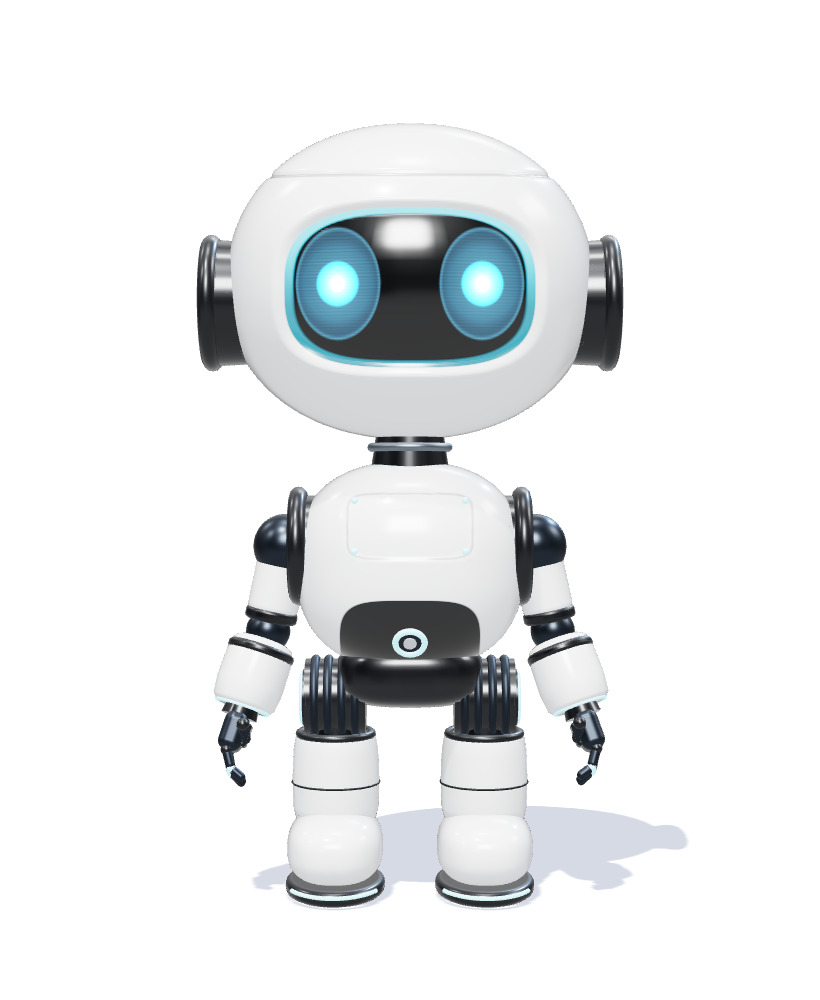
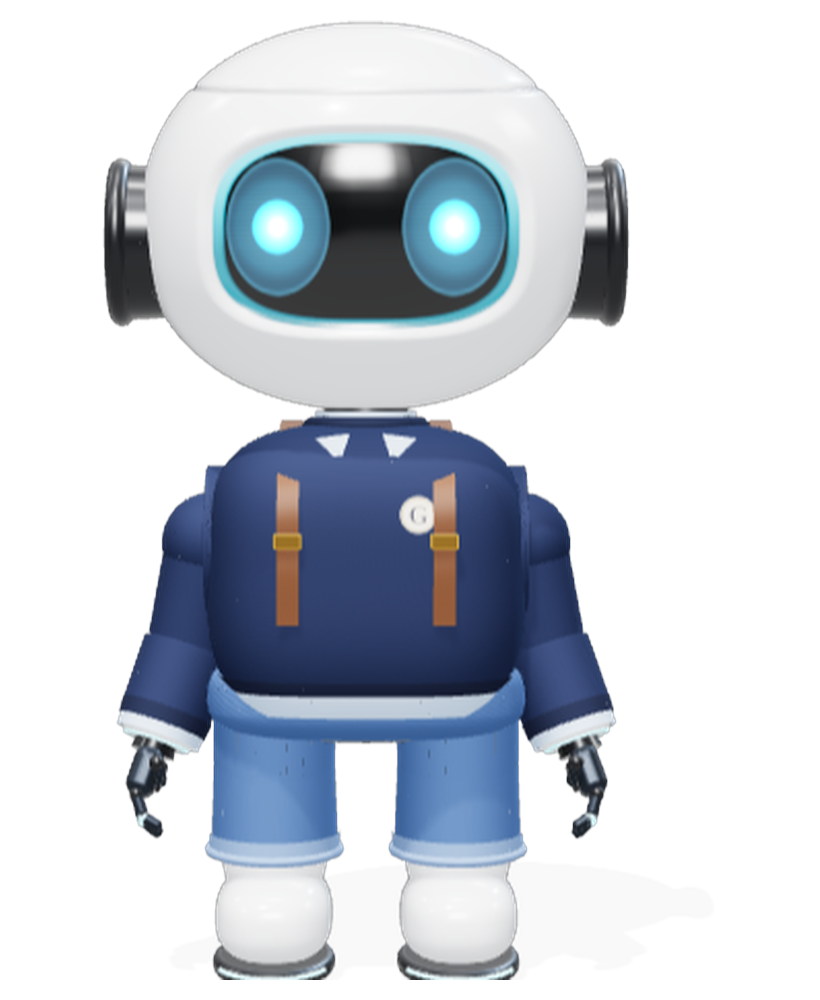
Gizmo: preppy outfit
Navy crew-neck sweatshirt with a crest over a light-blue oxford shirt
(collar points, cuffs and shirt-tail showing), mid-wash jeans with
rolled hems, and a tan canvas backpack with leather straps and brass
buckles. Still image for the no-3D fallback updated to match.

Claude-Session: https://claude.ai/code/session_01HN9mNrF19oo88FNATmVzzN

diff --git a/gizmo/avatar3d.js b/gizmo/avatar3d.js
@@ -267,6 +267,113 @@ export function createAvatar(el, opts = {}) {
     arms.push(arm);
   }
 
+  // ----- outfit: navy crew-neck sweatshirt over a light-blue oxford shirt, mid-wash jeans with rolled hems, tan canvas backpack -----
+  const fabricTex = (draw, rep) => { const c = document.createElement('canvas'); c.width = c.height = 128; const g = c.getContext('2d'); draw(g); const t = new THREE.CanvasTexture(c); t.wrapS = t.wrapT = THREE.RepeatWrapping; t.repeat.set(rep[0], rep[1]); return t; };
+  const knit = fabricTex(g => { g.fillStyle = '#7a7a7a'; g.fillRect(0, 0, 128, 128); for (let x = 0; x < 128; x += 4) { g.fillStyle = (x / 4) % 2 ? '#a0a0a0' : '#5c5c5c'; g.fillRect(x, 0, 2, 128); } }, [14, 8]);
+  const twill = fabricTex(g => { g.fillStyle = '#7a7a7a'; g.fillRect(0, 0, 128, 128); g.strokeStyle = '#b0b0b0'; g.lineWidth = 2; for (let i = -128; i < 256; i += 6) { g.beginPath(); g.moveTo(i, 0); g.lineTo(i + 128, 128); g.stroke(); } }, [4, 4]);
+  const C = {
+    sweat: new THREE.MeshStandardMaterial({ color: 0x1e2c4c, roughness: .93, bumpMap: knit, bumpScale: .5, side: THREE.DoubleSide }),
+    rib: new THREE.MeshStandardMaterial({ color: 0x18233d, roughness: .95, bumpMap: knit, bumpScale: 1.2, side: THREE.DoubleSide }),
+    shirt: new THREE.MeshStandardMaterial({ color: 0xb9d2f0, roughness: .78, side: THREE.DoubleSide }),
+    denim: new THREE.MeshStandardMaterial({ color: 0x46679a, roughness: .9, bumpMap: twill, bumpScale: .7, side: THREE.DoubleSide }),
+    denimLight: new THREE.MeshStandardMaterial({ color: 0x7593c2, roughness: .92, bumpMap: twill, bumpScale: .7 }),
+    canvas: new THREE.MeshStandardMaterial({ color: 0xc9a46a, roughness: .88, bumpMap: twill, bumpScale: .35 }),
+    leather: new THREE.MeshStandardMaterial({ color: 0x6a4024, roughness: .5, side: THREE.DoubleSide }),
+    brass: new THREE.MeshStandardMaterial({ color: 0xd2a94e, roughness: .28, metalness: 1 }),
+  };
+  // a band of a super-ellipsoid shell, kept between two heights (an open tube of fabric)
+  function band(a, bt, bb, c, n, yMin, yMax, mat) {
+    // parametric strip of the super-ellipsoid between two heights: clean, straight edges top and bottom
+    const ROWS = 40, COLS = 128, pos = [], idx = [];
+    const yTop = Math.min(yMax, bt * .999), yBot = Math.max(yMin, -bb * .999);
+    for (let r = 0; r <= ROWS; r++) {
+      const y = yBot + (yTop - yBot) * r / ROWS, bh = y > 0 ? bt : bb;
+      const k = Math.pow(Math.max(0, 1 - Math.pow(Math.abs(y / bh), n)), 1 / n);
+      for (let q = 0; q <= COLS; q++) {
+        const t = q / COLS * PI * 2, ct = Math.cos(t), st = Math.sin(t);
+        pos.push(a * k * Math.sign(ct) * Math.pow(Math.abs(ct), 2 / n), y, c * k * Math.sign(st) * Math.pow(Math.abs(st), 2 / n));
+        if (r < ROWS && q < COLS) { const i = r * (COLS + 1) + q, j = i + COLS + 1; idx.push(i, i + 1, j, i + 1, j + 1, j); }
+      }
+    }
+    const g = new THREE.BufferGeometry(); g.setAttribute('position', new THREE.Float32BufferAttribute(pos, 3)); g.setIndex(idx); g.computeVertexNormals();
+    const uv = []; for (let r = 0; r <= ROWS; r++) for (let q = 0; q <= COLS; q++) uv.push(q / COLS, r / ROWS); g.setAttribute('uv', new THREE.Float32BufferAttribute(uv, 2));
+    return mesh(g, mat);
+  }
+
+  const SA = .64, SBT = .56, SBB = .66, SC = .55, SN = 3.2, HEM = -.5;            // sweatshirt: boxier and longer than the body egg
+  const sweatZ = (x, y) => SC * Math.pow(Math.max(0, 1 - Math.pow(Math.abs(x / SA), SN) - Math.pow(Math.abs(y / (y > 0 ? SBT : SBB)), SN)), 1 / SN);
+  const sweat = band(SA, SBT, SBB, SC, SN, HEM + .06, 1, C.sweat); torso.add(mesh(superBlob(SA * .995, SBT, SBT, SC * .995, SN, 96, 64), C.sweat, [0, TY + .001, 0], [1, 1, 1]).translateY(0)); sweat.position.y = TY; torso.add(sweat);
+  const hemRib = band(SA * 1.012, SBT, SBB * 1.01, SC * 1.014, SN, HEM, HEM + .075, C.rib); hemRib.position.y = TY; torso.add(hemRib);
+  const tail = band(SA * .985, SBT, SBB * 1.08, SC * .985, SN, HEM - .07, HEM + .02, C.shirt); tail.position.y = TY; torso.add(tail);   // shirt-tail under the hem
+  // crew neck: ribbed collar round the neck, with the shirt collar points showing in front
+  torso.add(mesh(new THREE.TorusGeometry(.215, .042, 14, 48), C.rib, [0, TY + SBT - .015, 0]).rotateX(PI / 2));
+  for (const sx of [-1, 1]) {
+    const y = .5, x = sx * .085, z = sweatZ(x, y) + .02;
+    const pt = new THREE.Shape(); pt.moveTo(0, 0); pt.lineTo(sx * .13, -.02); pt.lineTo(sx * .035, -.13); pt.closePath();
+    const cp = mesh(new THREE.ExtrudeGeometry(pt, { depth: .012, bevelEnabled: false }), C.shirt, [x - sx * .02, TY + y + .02, z - .01]);
+    cp.rotation.x = -.55; torso.add(cp);
+  }
+  torso.add(mesh(new THREE.CylinderGeometry(.205, .205, .05, 40, 1, true), C.shirt, [0, TY + SBT + .025, 0]));      // shirt collar band round the neck
+  // chest patch: a cream circle with a navy G
+  {
+    const c = document.createElement('canvas'); c.width = c.height = 128; const g = c.getContext('2d');
+    g.fillStyle = '#efe6d2'; g.beginPath(); g.arc(64, 64, 62, 0, 7); g.fill(); g.strokeStyle = '#b08d57'; g.lineWidth = 6; g.beginPath(); g.arc(64, 64, 55, 0, 7); g.stroke();
+    g.fillStyle = '#1e2c4c'; g.font = '700 84px Georgia, "Times New Roman", serif'; g.textAlign = 'center'; g.textBaseline = 'middle'; g.fillText('G', 64, 70);
+    const t = new THREE.CanvasTexture(c); t.colorSpace = THREE.SRGBColorSpace;
+    const x = .2, y = .22, z = sweatZ(x, y) + .006;
+    const nrm = new THREE.Vector3(Math.pow(Math.abs(x / SA), SN - 1) / SA, Math.pow(Math.abs(y / SBT), SN - 1) / SBT, Math.pow(z / SC, SN - 1) / SC).normalize();
+    const patch = new THREE.Mesh(new THREE.CircleGeometry(.075, 40), new THREE.MeshStandardMaterial({ map: t, roughness: .8, transparent: true }));
+    patch.position.set(x, TY + y, z); patch.quaternion.setFromUnitVectors(new THREE.Vector3(0, 0, 1), nrm); torso.add(patch);
+  }
+  for (const sx of [-1, 1]) { const sh = mesh(new THREE.CylinderGeometry(.31, .31, .22, 40), C.sweat, [sx * .53, TY + .08, 0]); sh.rotation.z = PI / 2; torso.add(sh); }   // cover the shoulder sockets
+  // sleeves: sweatshirt down to a ribbed cuff, with the shirt cuff peeking out at the wrist
+  arms.forEach(arm => {
+    const upperG = arm.children[1], fore = arm.userData.fore;
+    arm.add(mesh(new THREE.SphereGeometry(.205, 32, 24), C.sweat));                                       // sleeve cap over the shoulder ball
+    upperG.add(mesh(new THREE.CylinderGeometry(.19, .175, .4, 36, 1, true), C.sweat, [0, -.2, 0]));
+    fore.add(mesh(new THREE.SphereGeometry(.17, 28, 20), C.sweat));                                      // elbow
+    fore.add(mesh(new THREE.CylinderGeometry(.19, .185, .26, 36, 1, true), C.sweat, [0, -.14, 0]));
+    fore.add(mesh(new THREE.CylinderGeometry(.188, .182, .065, 36, 1, true), C.rib, [0, -.3, 0]));
+    fore.add(mesh(new THREE.CylinderGeometry(.176, .174, .05, 36, 1, true), C.shirt, [0, -.355, 0]));
+  });
+  // jeans: waistband and seat, straight legs over the hip wheels and boot tops, rolled hems
+  hips.add(mesh(superBlob(.64, .19, .17, .4, 3.4, 64, 40), C.denim, [0, .32, 0]));
+  legs.forEach(leg => {
+    leg.add(mesh(new THREE.CylinderGeometry(.25, .245, .42, 40, 1, true), C.denim, [0, .04, 0]));
+    leg.add(mesh(new THREE.CylinderGeometry(.25, .25, .02, 40), C.denim, [0, .25, 0]));
+    const knee = leg.userData.knee;
+    knee.add(mesh(new THREE.SphereGeometry(.245, 32, 20), C.denim, [0, 0, 0]));
+    knee.add(mesh(new THREE.CylinderGeometry(.245, .255, .3, 40, 1, true), C.denim, [0, -.15, 0]));
+    knee.add(mesh(new THREE.CylinderGeometry(.265, .265, .075, 40, 1, true), C.denimLight, [0, -.32, 0]));   // rolled hem
+    knee.add(mesh(new THREE.TorusGeometry(.262, .02, 8, 40), C.denimLight, [0, -.357, 0]).rotateX(PI / 2));
+  });
+  // backpack: tan canvas body, front pocket with leather flap straps and brass buckles, top handle, leather straps over the shoulders
+  {
+    const bp = new THREE.Group(); bp.position.set(0, TY + .02, -SC - .17); torso.add(bp);
+    bp.add(mesh(new RoundedBoxGeometry(.66, .78, .3, 5, .1), C.canvas));
+    bp.add(mesh(new RoundedBoxGeometry(.5, .34, .12, 4, .05), C.canvas, [0, -.17, -.18]));
+    bp.add(mesh(new RoundedBoxGeometry(.52, .1, .14, 3, .04), C.leather, [0, -.36, -.06]));                   // leather base
+    bp.add(mesh(new RoundedBoxGeometry(.5, .12, .02, 3, .008), C.canvas, [0, .0, -.245]));                    // pocket flap
+    for (const sx of [-1, 1]) {
+      bp.add(mesh(new RoundedBoxGeometry(.05, .2, .012, 2, .005), C.leather, [sx * .14, -.08, -.252]));
+      bp.add(mesh(new RoundedBoxGeometry(.065, .045, .015, 2, .006), C.brass, [sx * .14, -.12, -.258]));
+    }
+    const handle = mesh(new THREE.TorusGeometry(.09, .022, 10, 24, PI), C.leather, [0, .39, 0]); bp.add(handle);
+    // shoulder straps: flat leather ribbons from the top of the pack, over the shoulders, down the chest
+    const ribbon = (pts, w, mat) => {
+      const curve = new THREE.CatmullRomCurve3(pts.map(p => new THREE.Vector3(...p))), N = 60, pos = [], idx = [];
+      for (let i = 0; i <= N; i++) { const p = curve.getPoint(i / N); pos.push(p.x - w / 2, p.y, p.z, p.x + w / 2, p.y, p.z); if (i < N) { const a = i * 2; idx.push(a, a + 1, a + 2, a + 1, a + 3, a + 2); } }
+      const g = new THREE.BufferGeometry(); g.setAttribute('position', new THREE.Float32BufferAttribute(pos, 3)); g.setIndex(idx); g.computeVertexNormals();
+      return mesh(g, mat);
+    };
+    for (const sx of [-1, 1]) {
+      const x = sx * .3, top = SBT - .02;
+      const pts = [[x, .32, -SC - .06], [x, top - .02, -.3], [x, top + .03, 0], [x, top - .06, .3], [x, .3, sweatZ(x, .3) + .025], [x, .05, sweatZ(x, .05) + .025], [x, -.2, sweatZ(x, -.2) + .025]];
+      const st = ribbon(pts, .085, C.leather); st.position.y = TY; torso.add(st);
+      torso.add(mesh(new RoundedBoxGeometry(.11, .06, .025, 2, .008), C.brass, [x, TY + .12, sweatZ(x, .12) + .04]));
+    }
+  }
+
   // ----- head: big round white shell, black glass visor with a cyan rim light, seam over the top -----
   const head = new THREE.Group(); head.position.y = TY + TBT + .05; torso.add(head);
   const skull = new THREE.Group(); skull.position.y = .8; head.add(skull);
